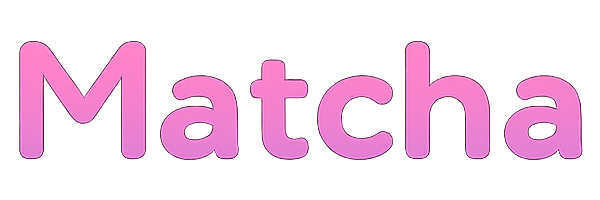
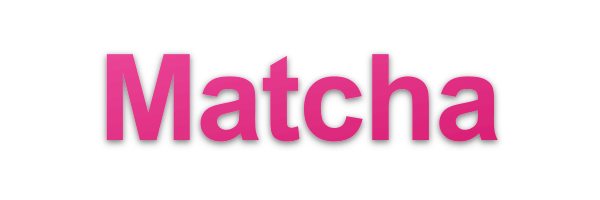
feat(auth): update login functionality to use username instead of email
- Changed login form to accept username
- Updated error messages to reflect username usage
- Modified database query to select by username

diff --git a/frontend/src/components/forms/LoginForm.tsx b/frontend/src/components/forms/LoginForm.tsx
@@ -12,7 +12,7 @@ const LoginForm = () => {
   const { addToast } = useNotification();
   const { login } = useAuth();
   const [formData, setFormData] = useState<LoginFormData>({
-    email: '',
+    username: '',
     password: '',
     remember: false,
   });
@@ -36,7 +36,7 @@ const LoginForm = () => {
       }
     } catch (error) {
       console.error('Error logging in user');
-      addToast('Wrong email or password', 'error');
+      addToast('Wrong username or password', 'error');
     }
   };
 
@@ -44,14 +44,14 @@ const LoginForm = () => {
     <form onSubmit={handleSubmit} className="flex flex-col gap-4">
       {/* Email */}
       <div>
-        <Label htmlFor="email" className="mb-2 block">Email</Label>
+        <Label htmlFor="username" className="mb-2 block">Username</Label>
         <TextInput
-          id="email"
-          name="email"
-          type="email"
-          placeholder="exemple@email.com"
+          id="username"
+          name="username"
+          type="text"
+          placeholder="username"
           required
-          value={formData.email}
+          value={formData.username}
           onChange={handleChange}
         />
       </div>

diff --git a/backend/src/models/userModel.ts b/backend/src/models/userModel.ts
@@ -22,12 +22,12 @@ export const createUser = async (user: RegisterFormData) => {
 export const loginUser = async (user: LoginFormData) => {
     try {
     const query = `
-    SELECT id, email, password FROM users WHERE email = $1
+    SELECT id, username, password FROM users WHERE username = $1
     `;
-        const values = [user.email];
+        const values = [user.username];
         const result = await pool.query(query, values);
         if (result.rows.length === 0) {
-            console.error('Invalid email');
+            console.error('Invalid username');
             return null;
         }
         const isValidPassword = await bcrypt.compare(user.password, result.rows[0].password);

diff --git a/frontend/src/components/layout/Header.tsx b/frontend/src/components/layout/Header.tsx
@@ -38,7 +38,7 @@ const Header: React.FC = () => {
     <nav className="bg-white border-b border-gray-200 px-4 dark:bg-gray-800 dark:border-gray-700 w-full z-header h-16 flex-none flex items-center">
         <div className="flex flex-wrap justify-between items-center mx-auto max-w-screen-xl w-full">
           <Link to="/" className="flex items-center">
-            <img src={TitleImage} alt="Matcha" className="h-8" />
+            <img src={TitleImage} alt="Matcha" className="h-10" />
           </Link>
           <div className="flex items-center lg:order-2 gap-2">
             <button 

diff --git a/backend/src/controllers/authController.ts b/backend/src/controllers/authController.ts
@@ -37,7 +37,7 @@ export class AuthController {
         try {
             const user = await loginUser(loginData);
             if (!user) {
-                res.status(401).json({ error: 'Invalid email or password' });
+                res.status(401).json({ error: 'Invalid username or password' });
                 return;
             }
             const token = generateToken({ id: user.id }, loginData.remember);

diff --git a/backend/src/types/forms.ts b/backend/src/types/forms.ts
@@ -9,7 +9,7 @@ export interface RegisterFormData {
   }
 
 export interface LoginFormData {
-    email: string;
+    username: string;
     password: string;
     remember: boolean;
   }

diff --git a/frontend/src/types/forms.ts b/frontend/src/types/forms.ts
@@ -9,7 +9,7 @@ export interface RegisterFormData {
   }
 
 export interface LoginFormData {
-    email: string;
+    username: string;
     password: string;
     remember: boolean;
   }
